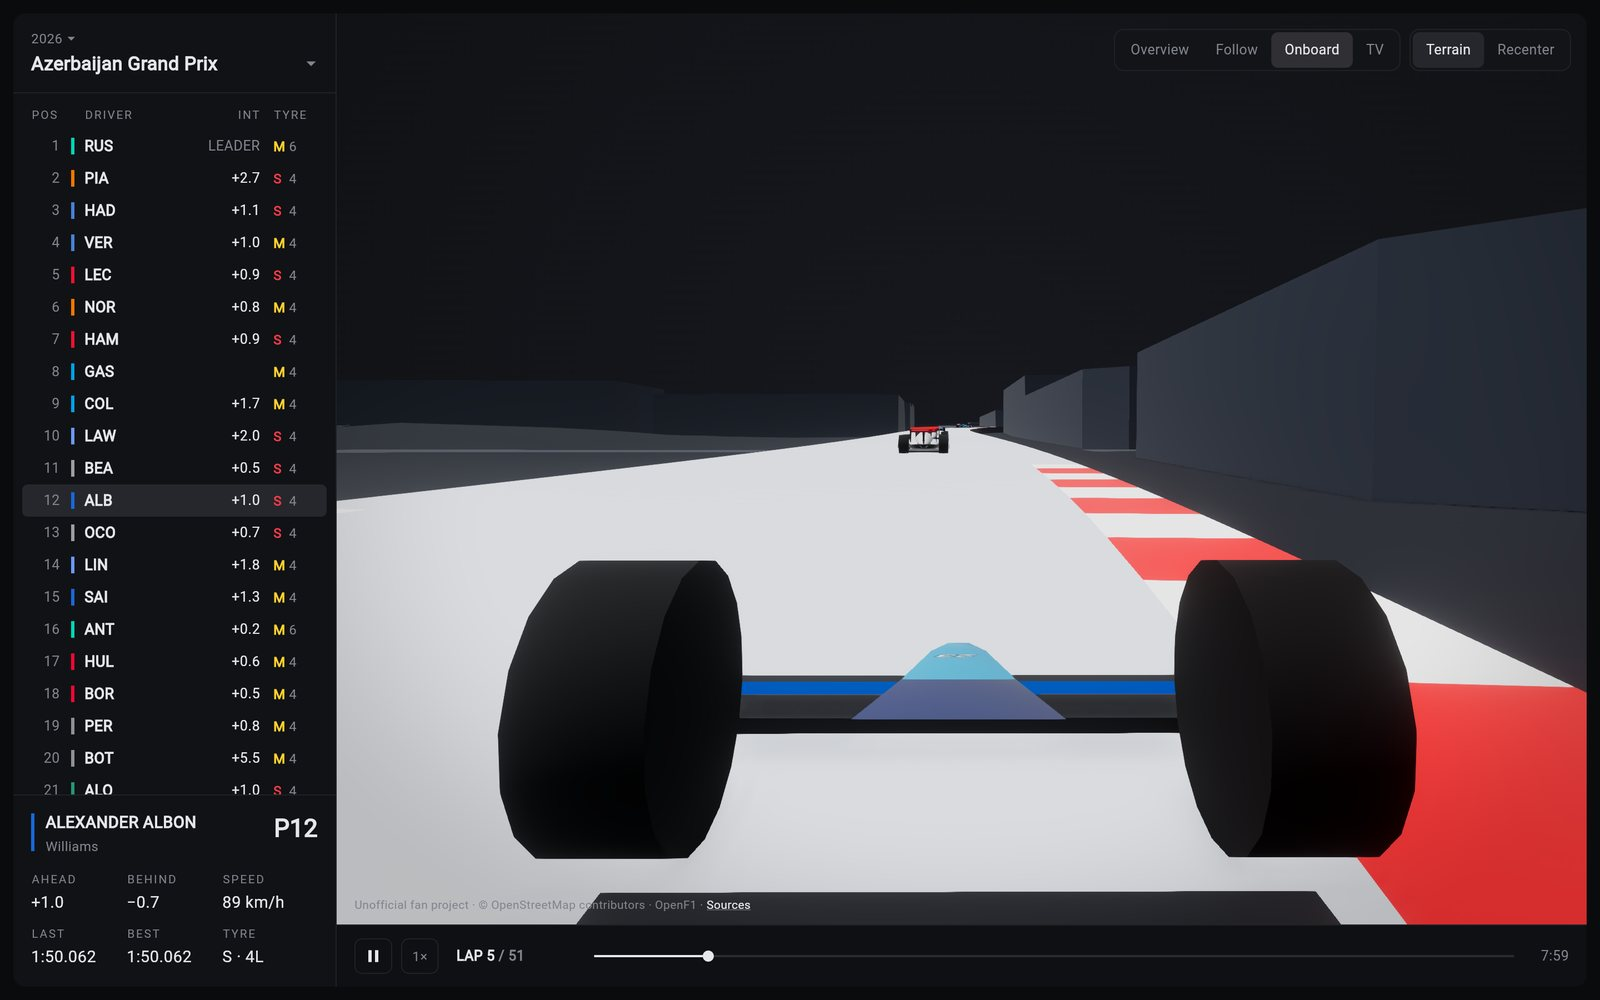
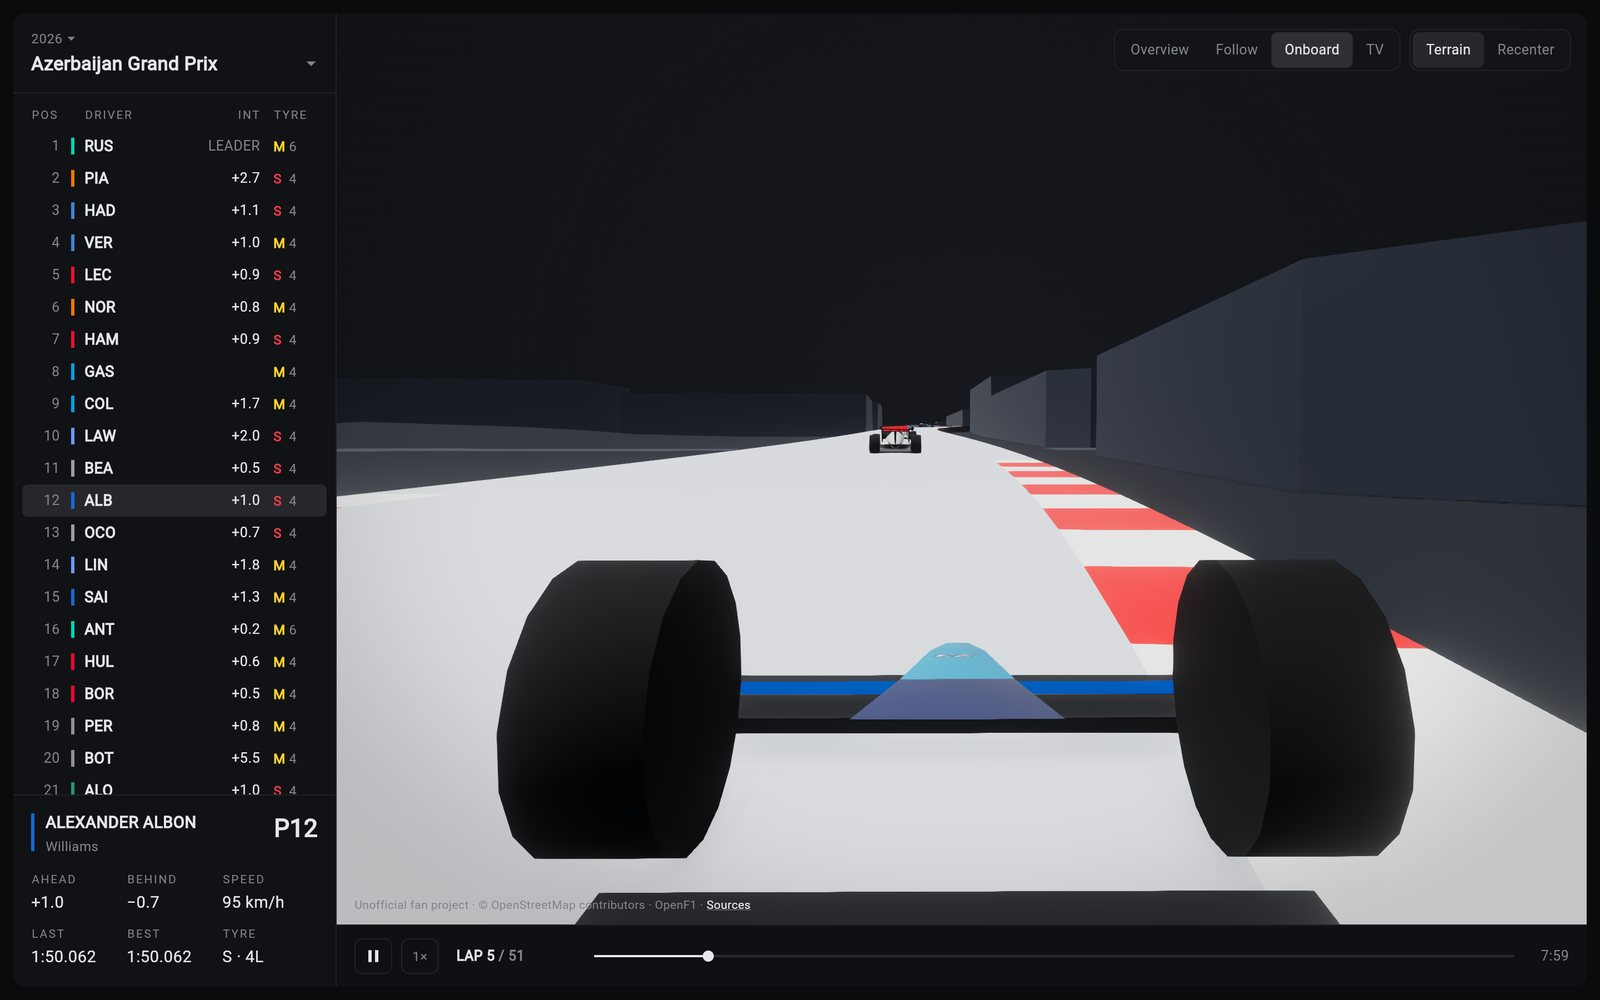
Keep the scenery within its ground
OpenStreetMap shapes that cross the edge of a circuit's scenery come
whole, so roads ran on for up to 1.5 km past the terrain block (186 at
Baku), floating at the height of its edge. Roads are now cut where they
leave the ground, kept half their width inside it; water is clipped to
it, and buildings and trees that cross it are left out. README
screenshots retaken.

diff --git a/lib/src/geometry/environment_mesh.dart b/lib/src/geometry/environment_mesh.dart
@@ -12,7 +12,9 @@ import 'track_projector.dart';
 /// The terrain is upsampled, then cut down or built up to sit just under the
 /// track, and everything else (buildings, roads, water, trees) stands on
 /// that shaped ground. Buildings, roads and trees that would touch the
-/// circuit are left out.
+/// circuit are left out, and nothing reaches past the ground's edges:
+/// OpenStreetMap shapes that cross them come whole, roads sometimes
+/// kilometres beyond.
 class EnvironmentMeshBuilder {
   EnvironmentMeshBuilder(this.environment, this.track)
     : _ground = _upsample(environment.terrain) {
@@ -30,6 +32,14 @@ class EnvironmentMeshBuilder {
 
   /// The ground's colour at each of its nodes.
   late final List<Vector4> _colors;
+
+  /// The ground's extent; everything built stays within it.
+  late final _bounds = _Box(
+    _ground.minX,
+    _ground.maxX,
+    _ground.southZ,
+    _ground.northZ,
+  );
 
   static final _terrain = linearColor(0x22262D);
   static final _grass = linearColor(0x26332A);
@@ -65,7 +75,9 @@ class EnvironmentMeshBuilder {
 
   _Solid? _solidOf(EnvironmentShape building) {
     final ring = _ccw(_open(building.points));
-    if (ring.length < 3 || !_clearOfTrack(ring)) return null;
+    if (ring.length < 3) return null;
+    if (!ring.every((p) => _bounds.contains(p.x, p.y))) return null;
+    if (!_clearOfTrack(ring)) return null;
     final ground = ring.map((p) => groundAt(p.x, p.y)).reduce(math.min);
     final height = building.height > 0 ? building.height : _defaultHeight;
     return _Solid(ring, _Box.of(ring), ground, ground + height);
@@ -291,53 +303,67 @@ class EnvironmentMeshBuilder {
   }
 
   /// Roads as ribbons draped over the ground, broken where they would cross
-  /// the circuit. Footpaths and race tracks are left out.
+  /// the circuit or leave the ground. Footpaths and race tracks are left
+  /// out.
   MeshArrays roads() {
     final mesh = MeshBuilder();
     final color = linearColor(0x363B43);
-    final up = Vector3(0, 1, 0);
     for (final road in environment.roads) {
       final width = _roadWidth(road.kind);
       if (width == null) continue;
-      // Points every ~10 m so the ribbon follows the ground.
-      final dense = <Vector2>[];
-      for (var i = 0; i + 1 < road.points.length; i++) {
-        final a = road.points[i], b = road.points[i + 1];
-        final steps = math.max(1, (a.distanceTo(b) / 10).ceil());
-        for (var k = 0; k < steps; k++) {
-          dense.add(a + (b - a) * (k / steps));
-        }
-      }
-      if (road.points.isNotEmpty) dense.add(road.points.last);
-
-      var previous = -1;
-      for (var i = 0; i < dense.length; i++) {
-        final p = dense[i];
-        if (_beyondTrack(p.x, p.y, within: width / 2 + 3) < width / 2 + 3) {
-          previous = -1;
-          continue;
-        }
-        final ahead = dense[math.min(i + 1, dense.length - 1)];
-        final behind = dense[math.max(i - 1, 0)];
-        final direction = ahead - behind;
-        if (direction.length2 < 1e-6) continue;
-        direction.normalize();
-        final side = Vector2(direction.y, -direction.x) * (width / 2);
-        final v = mesh.vertexCount;
-        for (final q in [p + side, p - side]) {
-          mesh.vertex(
-            Vector3(q.x, groundAt(q.x, q.y) + 0.25, q.y),
-            up,
-            color: color,
-          );
-        }
-        if (previous >= 0) {
-          mesh.quadFacing(previous, previous + 1, v + 1, v, up);
-        }
-        previous = v;
+      // Kept far enough inside the edges that the ribbon's sides are too.
+      for (final run in _bounds.inset(width / 2).runsInside(road.points)) {
+        _addRoad(mesh, run, width, color);
       }
     }
     return mesh.build();
+  }
+
+  /// One stretch of road through [line], [width] meters wide.
+  void _addRoad(
+    MeshBuilder mesh,
+    List<Vector2> line,
+    double width,
+    Vector4 color,
+  ) {
+    final up = Vector3(0, 1, 0);
+    // Points every ~10 m so the ribbon follows the ground.
+    final dense = <Vector2>[];
+    for (var i = 0; i + 1 < line.length; i++) {
+      final a = line[i], b = line[i + 1];
+      final steps = math.max(1, (a.distanceTo(b) / 10).ceil());
+      for (var k = 0; k < steps; k++) {
+        dense.add(a + (b - a) * (k / steps));
+      }
+    }
+    dense.add(line.last);
+
+    var previous = -1;
+    for (var i = 0; i < dense.length; i++) {
+      final p = dense[i];
+      if (_beyondTrack(p.x, p.y, within: width / 2 + 3) < width / 2 + 3) {
+        previous = -1;
+        continue;
+      }
+      final ahead = dense[math.min(i + 1, dense.length - 1)];
+      final behind = dense[math.max(i - 1, 0)];
+      final direction = ahead - behind;
+      if (direction.length2 < 1e-6) continue;
+      direction.normalize();
+      final side = Vector2(direction.y, -direction.x) * (width / 2);
+      final v = mesh.vertexCount;
+      for (final q in [p + side, p - side]) {
+        mesh.vertex(
+          Vector3(q.x, groundAt(q.x, q.y) + 0.25, q.y),
+          up,
+          color: color,
+        );
+      }
+      if (previous >= 0) {
+        mesh.quadFacing(previous, previous + 1, v + 1, v, up);
+      }
+      previous = v;
+    }
   }
 
   /// Lakes, rivers and sea as flat surfaces at their shore's lowest ground.
@@ -346,7 +372,7 @@ class EnvironmentMeshBuilder {
     final color = linearColor(0x1B4A60);
     final up = Vector3(0, 1, 0);
     for (final w in environment.water) {
-      final ring = _ccw(_open(w.points));
+      final ring = _bounds.clipPolygon(_ccw(_open(w.points)));
       if (ring.length < 3) continue;
       final level = _waterLevel(ring) + 0.05;
       final base = mesh.vertexCount;
@@ -380,7 +406,8 @@ class EnvironmentMeshBuilder {
         attempts++;
         final x = box.minX + random.nextDouble() * (box.maxX - box.minX);
         final z = box.minZ + random.nextDouble() * (box.maxZ - box.minZ);
-        if (!_inside(ring, x, z) || _beyondTrack(x, z, within: 8) < 8) continue;
+        if (!_bounds.contains(x, z) || !_inside(ring, x, z)) continue;
+        if (_beyondTrack(x, z, within: 8) < 8) continue;
         out.add(Vector3(x, groundAt(x, z), z));
         placed++;
       }
@@ -585,4 +612,86 @@ class _Box {
 
   bool contains(double x, double z) =>
       x >= minX && x <= maxX && z >= minZ && z <= maxZ;
+
+  /// This box shrunk by [margin] on every side.
+  _Box inset(double margin) =>
+      _Box(minX + margin, maxX - margin, minZ + margin, maxZ - margin);
+
+  /// The part of the segment from [a] to [b] inside this box, or null when
+  /// it misses (Liang-Barsky: each edge narrows the range of the segment's
+  /// parameter that lies on its inner side).
+  (Vector2, Vector2)? clip(Vector2 a, Vector2 b) {
+    final d = b - a;
+    var t0 = 0.0, t1 = 1.0;
+    for (final (p, q) in [
+      (-d.x, a.x - minX),
+      (d.x, maxX - a.x),
+      (-d.y, a.y - minZ),
+      (d.y, maxZ - a.y),
+    ]) {
+      if (p == 0) {
+        // Parallel to this edge: wholly inside it or wholly out.
+        if (q < 0) return null;
+        continue;
+      }
+      final t = q / p;
+      if (p < 0) {
+        if (t > t1) return null;
+        t0 = math.max(t0, t);
+      } else {
+        if (t < t0) return null;
+        t1 = math.min(t1, t);
+      }
+    }
+    return (a + d * t0, a + d * t1);
+  }
+
+  /// The stretches of the polyline [line] inside this box, cut where it
+  /// crosses the edges.
+  List<List<Vector2>> runsInside(List<Vector2> line) {
+    final runs = <List<Vector2>>[];
+    List<Vector2>? run;
+    for (var i = 0; i + 1 < line.length; i++) {
+      final clipped = clip(line[i], line[i + 1]);
+      if (clipped == null) {
+        run = null;
+        continue;
+      }
+      final (a, b) = clipped;
+      if (run == null || run.last.distanceTo(a) > 1e-6) runs.add(run = [a]);
+      run.add(b);
+      // Left the box: the next stretch inside starts afresh.
+      if (b.distanceTo(line[i + 1]) > 1e-6) run = null;
+    }
+    return runs;
+  }
+
+  /// The polygon [ring] cut down to this box (Sutherland-Hodgman: clip
+  /// against each edge in turn). Keeps the winding.
+  List<Vector2> clipPolygon(List<Vector2> ring) {
+    var out = ring;
+    for (final (inside, cross)
+        in <(bool Function(Vector2), Vector2 Function(Vector2, Vector2))>[
+          ((p) => p.x >= minX, (a, b) => _atX(a, b, minX)),
+          ((p) => p.x <= maxX, (a, b) => _atX(a, b, maxX)),
+          ((p) => p.y >= minZ, (a, b) => _atY(a, b, minZ)),
+          ((p) => p.y <= maxZ, (a, b) => _atY(a, b, maxZ)),
+        ]) {
+      if (out.isEmpty) break;
+      final next = <Vector2>[];
+      for (var i = 0; i < out.length; i++) {
+        final a = out[i], b = out[(i + 1) % out.length];
+        if (inside(a)) next.add(a);
+        if (inside(a) != inside(b)) next.add(cross(a, b));
+      }
+      out = next;
+    }
+    return out;
+  }
+
+  /// Where the segment from [a] to [b] crosses x = [x], and z = [z].
+  static Vector2 _atX(Vector2 a, Vector2 b, double x) =>
+      a + (b - a) * ((x - a.x) / (b.x - a.x));
+  static Vector2 _atY(Vector2 a, Vector2 b, double z) =>
+      a + (b - a) * ((z - a.y) / (b.y - a.y));
 }

diff --git a/test/geometry/environment_mesh_test.dart b/test/geometry/environment_mesh_test.dart
@@ -148,6 +148,45 @@ void main() {
       );
     });
 
+    test('keeps everything within the ground', () {
+      // Shapes crossing the ground's south-west corner, far from the track:
+      // a road running on 2 km past it, a building and a lake over its edge.
+      final grid = plateau().terrain;
+      final corner = Vector2(grid.minX, grid.southZ);
+      List<Vector2> rectangle(double x0, double z0, double x1, double z1) => [
+        corner + Vector2(x0, z0),
+        corner + Vector2(x1, z0),
+        corner + Vector2(x1, z1),
+        corner + Vector2(x0, z1),
+      ];
+      final builder = EnvironmentMeshBuilder(
+        flatEnvironment(
+          stations,
+          height: 30,
+          roads: [
+            EnvironmentShape('primary', [
+              corner + Vector2(300, 300),
+              corner + Vector2(-2000, -1500),
+            ]),
+          ],
+          buildings: [
+            EnvironmentShape('building', rectangle(-5, 200, 10, 215)),
+          ],
+          water: [EnvironmentShape('water', rectangle(-100, 100, 200, 300))],
+        ),
+        track,
+      );
+      for (final mesh in [builder.roads(), builder.water()]) {
+        expect(mesh.vertexCount, greaterThan(0));
+        for (var i = 0; i < mesh.vertexCount; i++) {
+          final p = vertexOf(mesh, i);
+          expect(p.x, inInclusiveRange(grid.minX - 1e-6, grid.maxX + 1e-6));
+          expect(p.z, inInclusiveRange(grid.southZ - 1e-6, grid.northZ + 1e-6));
+        }
+      }
+      expect(builder.buildings().triangleCount, 0);
+    });
+
     test('terrain surface faces up', () {
       final mesh = EnvironmentMeshBuilder(plateau(), track).terrainBlock(-50);
       // The surface comes first: the grid upsampled to 127 x 127 nodes,

diff --git a/test/support/environment.dart b/test/support/environment.dart
@@ -5,13 +5,15 @@ import 'package:f1_scene/src/data/circuit_environment.dart';
 import 'package:f1_scene/src/geometry/track_mesh.dart';
 
 /// Flat ground [height] meters up, reaching [margin] meters past [stations]
-/// on every side, with [buildings] and nothing else on it. A 64 x 64 grid,
-/// like the real ones.
+/// on every side, with [buildings], [roads] and [water] on it. A 64 x 64
+/// grid, like the real ones.
 CircuitEnvironment flatEnvironment(
   TrackStations stations, {
   required double height,
   double margin = 1000,
   List<EnvironmentShape> buildings = const [],
+  List<EnvironmentShape> roads = const [],
+  List<EnvironmentShape> water = const [],
 }) {
   final xs = stations.center.map((c) => c.x);
   final zs = stations.center.map((c) => c.z);
@@ -24,9 +26,9 @@ CircuitEnvironment flatEnvironment(
       northZ: zs.reduce(math.max) + margin,
       heights: Float64List(64 * 64)..fillRange(0, 64 * 64, height),
     ),
-    water: const [],
+    water: water,
     landuse: const [],
-    roads: const [],
+    roads: roads,
     buildings: buildings,
   );
 }
